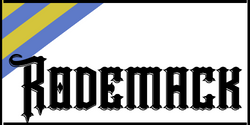
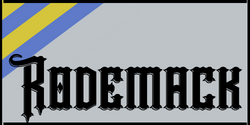
add affiche, assoc & galerie

diff --git a/assoc/assoc.html b/assoc/assoc.html
@@ -5,17 +5,17 @@
   <meta charset="UTF-8">
   <meta http-equiv="X-UA-Compatible" content="IE=edge">
   <meta name="Rodemack" content="width=device-width, initial-scale=1.0">
-  <link rel="stylesheet" href="node_modules/bootstrap/dist/css/bootstrap.min.css">
-  <link rel="stylesheet" href="style.css">
+  <link rel="stylesheet" href="../node_modules/bootstrap/dist/css/bootstrap.min.css">
+  <link rel="stylesheet" href="../style.css">
   <title>Rodemack</title>
 </head>
 
 <body>
   <header>
-    <nav class="navbar navbar-expand-lg">
+    <nav class="navbar navbar-expand-lg bg-wight">
       <div class="container-fluid">
-        <a class="navbar-brand" href="index.html">
-          <img src="Rodemack.png" alt="Rodemack" width="160" height="90" id="logo">
+        <a class="navbar-brand" href="../index.html">
+          <img src="../Rodemack.png" alt="Rodemack" width="125" height="65">
         </a>
         <button class="navbar-toggler" type="button" data-bs-toggle="collapse" data-bs-target="#navbarNavAltMarkup"
           aria-controls="navbarNavAltMarkup" aria-expanded="false" aria-label="Toggle navigation">
@@ -23,21 +23,17 @@
         </button>
         <div class="collapse navbar-collapse" id="navbarNavAltMarkup">
           <div class="navbar-nav">
-            <a class="nav-link active" aria-current="page" href="index.html">Accueil</a>
-            <a class="nav-link" href="assoc/assoc.html">Association</a>
-            <a class="nav-link" href="galerie/galerie.html">Galerie</a>
+            <a class="nav-link active" aria-current="page" href="../index.html">Accueil</a>
+            <a class="nav-link" href="assoc.html">Association</a>
+            <a class="nav-link" href="../galerie/galerie.html">Galerie</a>
           </div>
         </div>
       </div>
     </nav>
   </header>
-  <div class="titre">
-    <h1 class="text-center">Rodemack Cité Médiévale en Fête</h1>
-    <hr class="border-dark border-2 opacity-100">
-    <h2 class="text-center">Vivez une expérience inoubliable au Moyen-Âge</h2>
-  </div>
+  <h1 class="text-center">Association</h1>
+  <h2 class="text-center">Vivez une expérience inoubliable au Moyen-Âge</h2>
 
-  <img src="Affiche.png" class="Affiche img-fluid" alt="Affiche Rodemack">
 
 
   <script src="https://cdn.jsdelivr.net/npm/@popperjs/core@2.11.6/dist/umd/popper.min.js"

diff --git a/galerie/galerie.html b/galerie/galerie.html
@@ -5,17 +5,17 @@
   <meta charset="UTF-8">
   <meta http-equiv="X-UA-Compatible" content="IE=edge">
   <meta name="Rodemack" content="width=device-width, initial-scale=1.0">
-  <link rel="stylesheet" href="node_modules/bootstrap/dist/css/bootstrap.min.css">
-  <link rel="stylesheet" href="style.css">
+  <link rel="stylesheet" href="../node_modules/bootstrap/dist/css/bootstrap.min.css">
+  <link rel="stylesheet" href="../style.css">
   <title>Rodemack</title>
 </head>
 
 <body>
   <header>
-    <nav class="navbar navbar-expand-lg">
+    <nav class="navbar navbar-expand-lg bg-light">
       <div class="container-fluid">
-        <a class="navbar-brand" href="index.html">
-          <img src="Rodemack.png" alt="Rodemack" width="160" height="90" id="logo">
+        <a class="navbar-brand" href="../index.html">
+          <img src="../Rodemack.png" alt="Rodemack" width="125" height="65">
         </a>
         <button class="navbar-toggler" type="button" data-bs-toggle="collapse" data-bs-target="#navbarNavAltMarkup"
           aria-controls="navbarNavAltMarkup" aria-expanded="false" aria-label="Toggle navigation">
@@ -23,21 +23,17 @@
         </button>
         <div class="collapse navbar-collapse" id="navbarNavAltMarkup">
           <div class="navbar-nav">
-            <a class="nav-link active" aria-current="page" href="index.html">Accueil</a>
-            <a class="nav-link" href="assoc/assoc.html">Association</a>
-            <a class="nav-link" href="galerie/galerie.html">Galerie</a>
+            <a class="nav-link active" aria-current="page" href="../index.html">Accueil</a>
+            <a class="nav-link" href="../assoc/assoc.html">Association</a>
+            <a class="nav-link" href="galerie.html">Galerie</a>
           </div>
         </div>
       </div>
     </nav>
   </header>
-  <div class="titre">
-    <h1 class="text-center">Rodemack Cité Médiévale en Fête</h1>
-    <hr class="border-dark border-2 opacity-100">
-    <h2 class="text-center">Vivez une expérience inoubliable au Moyen-Âge</h2>
-  </div>
+  <h1 class="text-center">Galerie</h1>
+  <h2 class="text-center">Vivez une expérience inoubliable au Moyen-Âge</h2>
 
-  <img src="Affiche.png" class="Affiche img-fluid" alt="Affiche Rodemack">
 
 
   <script src="https://cdn.jsdelivr.net/npm/@popperjs/core@2.11.6/dist/umd/popper.min.js"

diff --git a/style.css b/style.css
@@ -1,4 +1,26 @@
+body{
+  background-color: #bdc3c7;
+}
 nav{
   font-size: 25px;
+  box-shadow: 0px 5px 5px;
   border: 1px solid black;
+}
+
+.titre{
+  padding: 25px;
+}
+
+h1, h2{
+  padding: 25px;
+}
+
+hr{ 
+  margin: auto;
+  width: 75%;
+  box-shadow:0px 0px 8px 3px;
+}
+
+.Affiche{
+  box-shadow: 0px 0px 15px 5px;
 }
